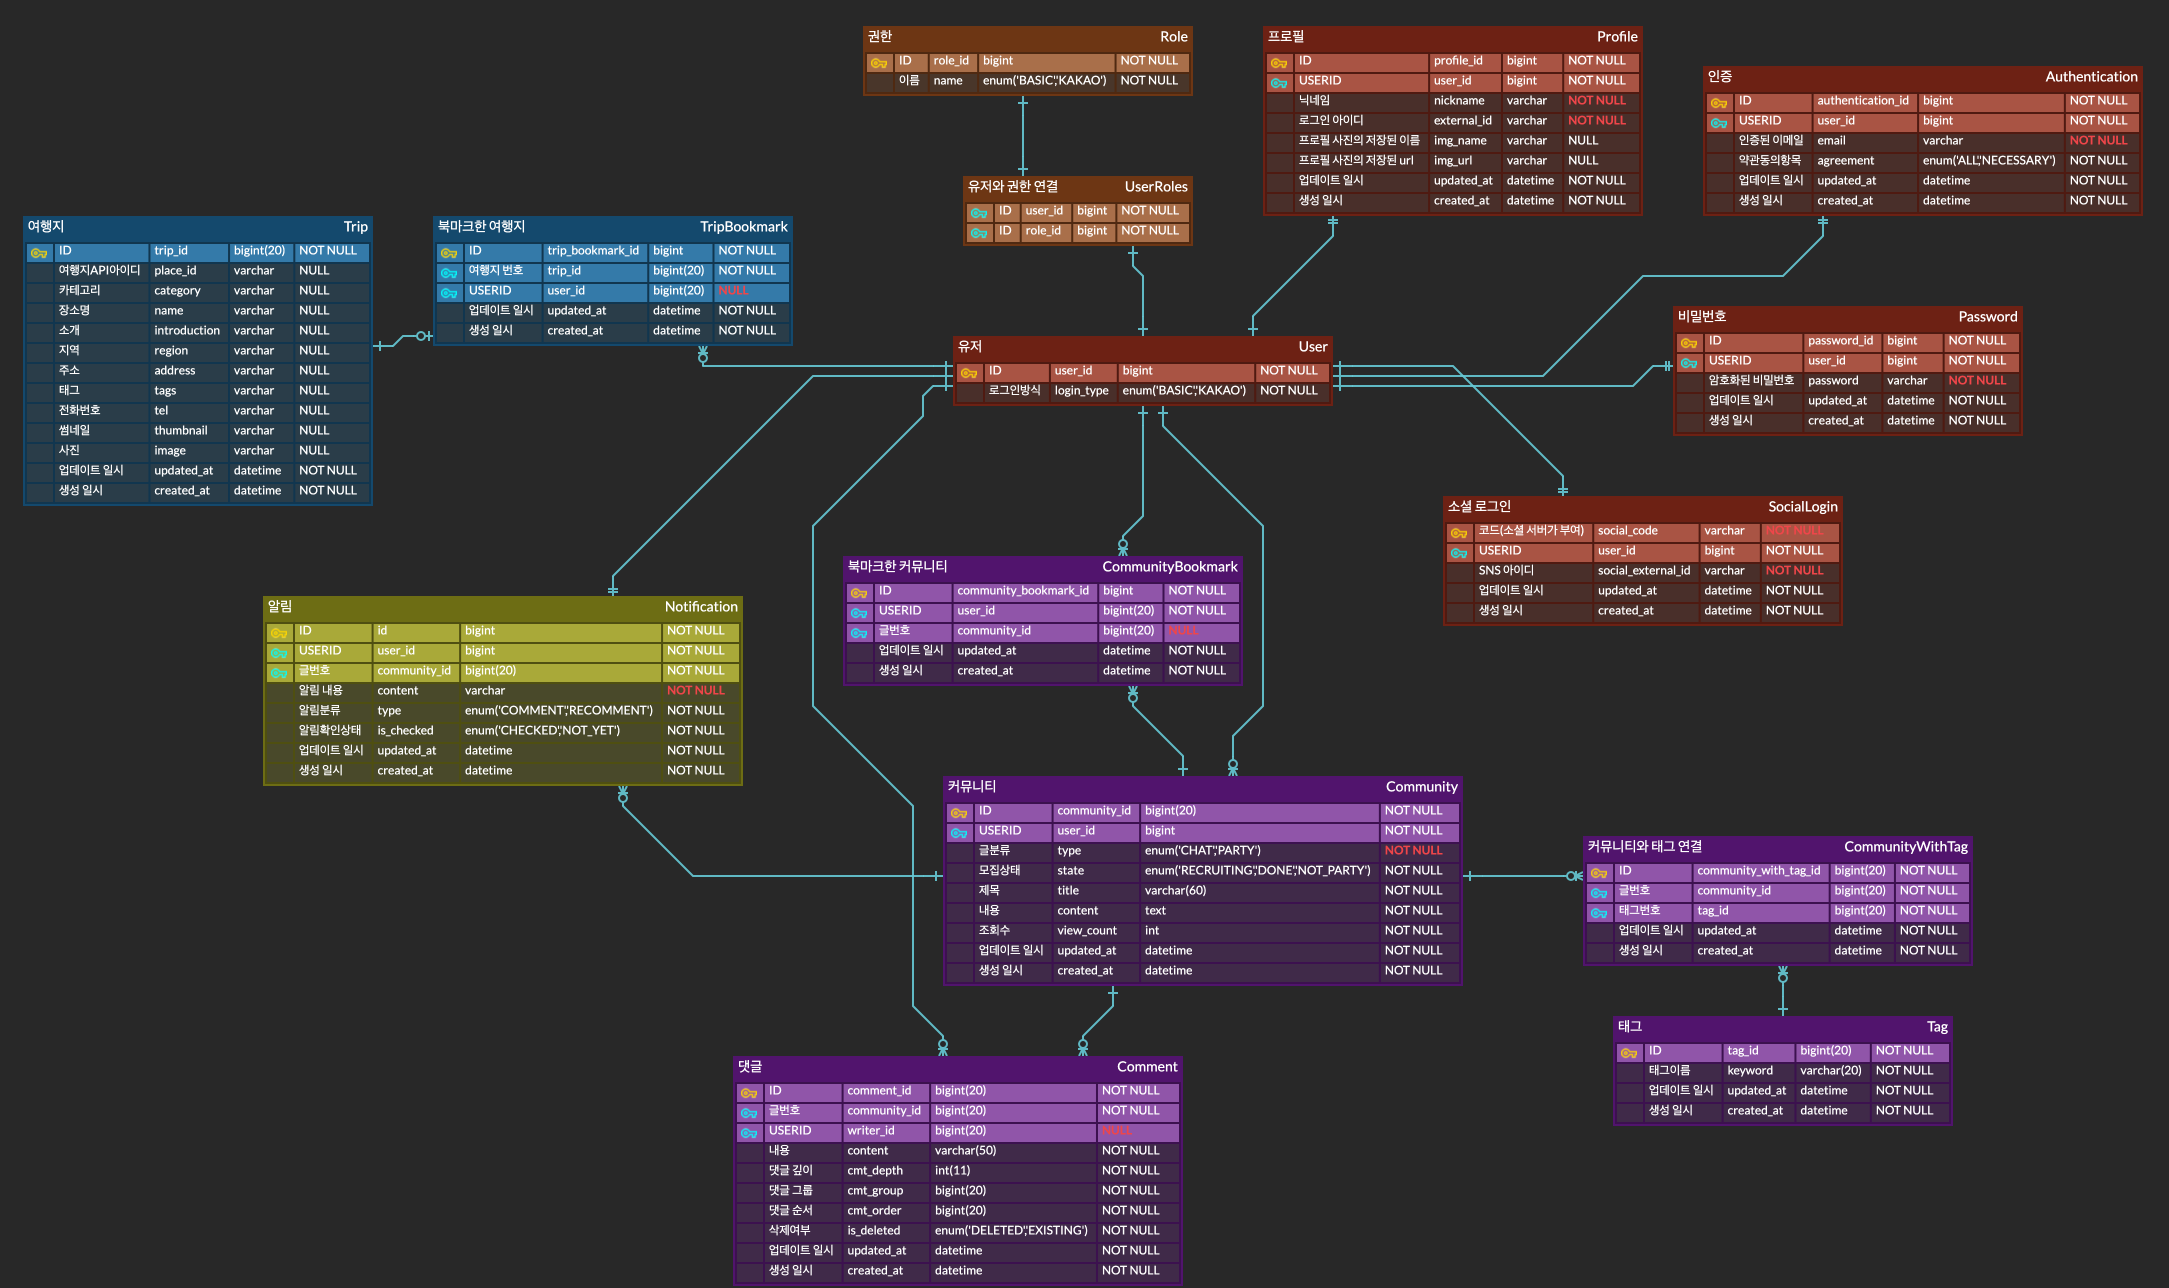
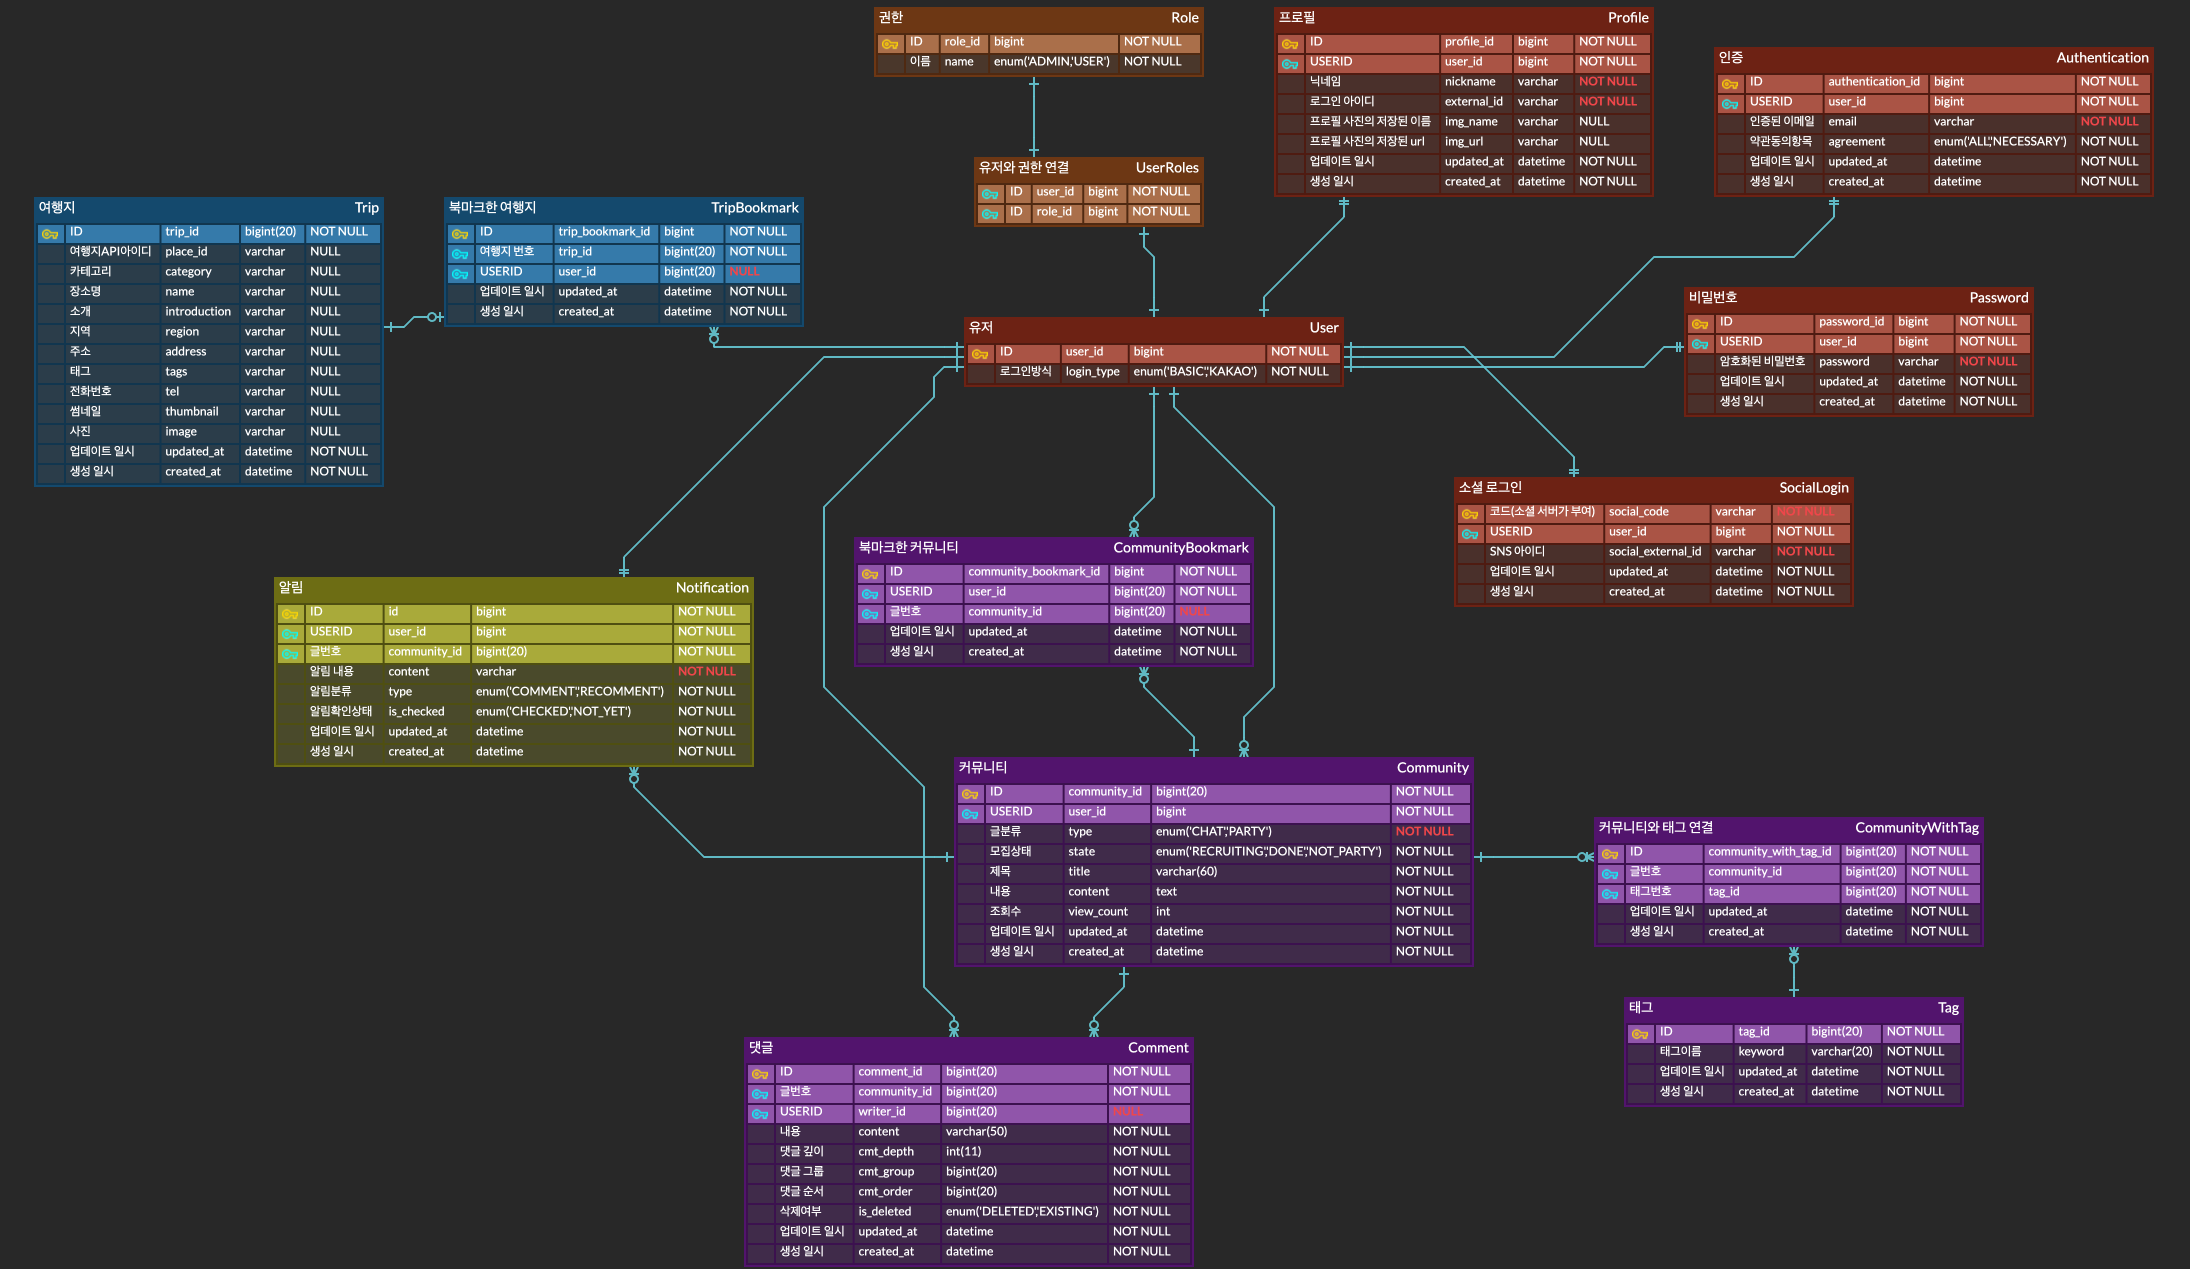
chore: EC2 IP주소 변경
- ERD 이미지 수정
- 변경된 IP주소 관련 파일 수정

diff --git a/src/main/resources/templates/user/login/signInForm.html b/src/main/resources/templates/user/login/signInForm.html
@@ -43,7 +43,7 @@
             <button class="btn btn-success" type="button" onclick="requestSignIn()"
                     style="height:67.5px; font-size: 22px">로그인</button>
 
-            <a id="kakao-login-btn" href="http://43.201.67.46:8080/oauth2/authorization/kakao"
+            <a id="kakao-login-btn" href="http://15.164.170.57:8080/oauth2/authorization/kakao"
                style="width:100%; height:70px; display: flex; justify-content: center; align-items: flex-end">
                 <img th:src="@{/img/kakao_login_large_wide.png}" alt="카카오 로그인 버튼" style="width:100%"/>
             </a>
